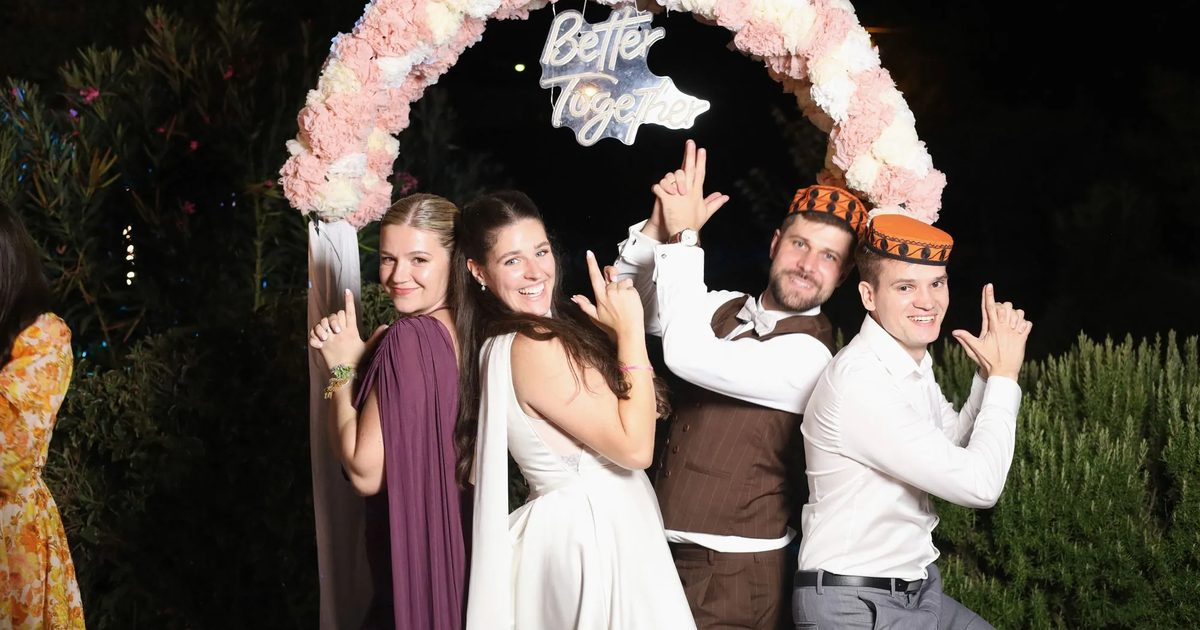
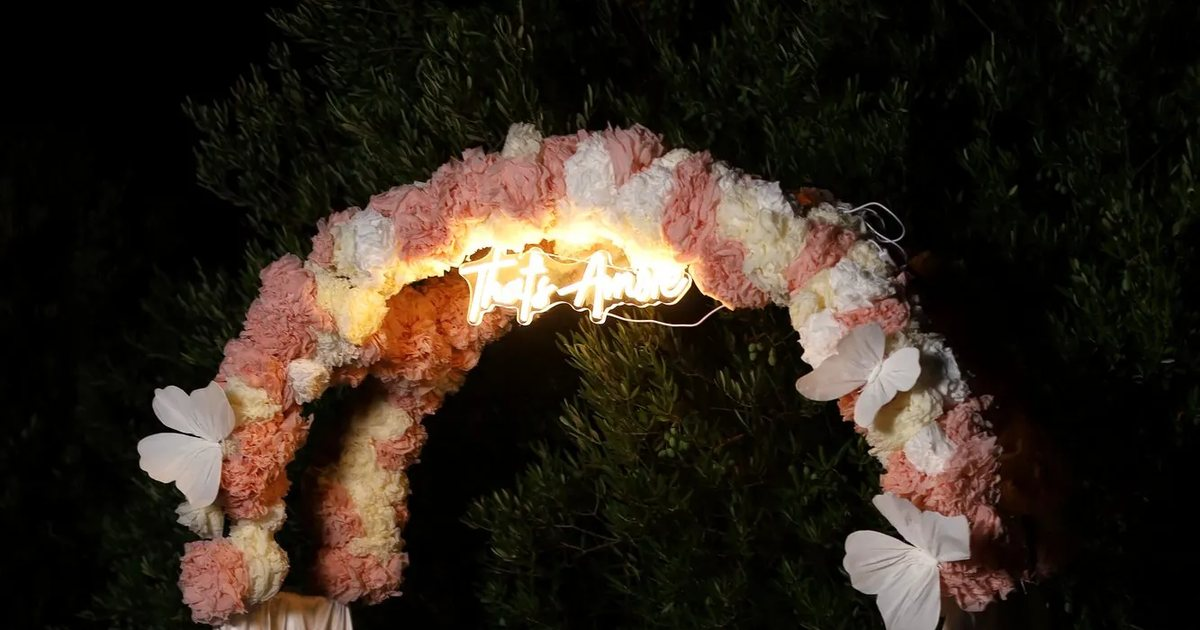
Revise photostation page: printed photos after the event, sketch comparison, new hero
Claude-Session: https://claude.ai/code/session_013jntR8Uv22ovGT6rZF1GNe

diff --git a/photostation/index.html b/photostation/index.html
@@ -4,24 +4,24 @@
   <meta charset="utf-8">
   <meta name="viewport" content="width=device-width, initial-scale=1">
   <title>Photostation s fotografom za vjenčanja u Dalmaciji · Gran Vía Studio</title>
-  <meta name="description" content="Photostation je photobooth bez konstrukcije: naš fotograf fotografira goste ispred cvjetnog luka, zavjese ili zelenila. Za vjenčanja i događaje u Šibeniku, Splitu, Zadru i cijeloj Dalmaciji.">
+  <meta name="description" content="Photostation je photobooth bez konstrukcije: naš fotograf vodi kadar ispred pozadine po izboru, a ispisane fotografije i galeriju dobivate nakon događaja.">
   <link rel="canonical" href="https://granviastudio.com.hr/photostation/">
   <meta property="og:type" content="website">
   <meta property="og:site_name" content="Gran Vía Studio">
   <meta property="og:locale" content="hr_HR">
   <meta property="og:url" content="https://granviastudio.com.hr/photostation/">
   <meta property="og:title" content="Photostation s fotografom · Gran Vía Studio">
-  <meta property="og:description" content="Photobooth bez konstrukcije: fotograf fotografira goste ispred pozadine po vašem izboru.">
+  <meta property="og:description" content="Photobooth bez konstrukcije: fotograf vodi kadar ispred pozadine po vašem izboru.">
   <meta property="og:image" content="https://granviastudio.com.hr/img/og-photostation.jpg">
   <meta property="og:image:width" content="1200">
   <meta property="og:image:height" content="630">
-  <meta property="og:image:alt" content="Mladenka s prijateljima ispod cvjetnog luka">
+  <meta property="og:image:alt" content="Cvjetni luk s neonskim natpisom That's amore">
   <meta name="twitter:card" content="summary_large_image">
   <meta name="theme-color" content="#f6f2ec">
   <link rel="icon" type="image/png" href="../img/favicon.png">
   <link rel="apple-touch-icon" href="../img/favicon.png">
-  <link rel="preload" as="image" href="../img/galerija-luk-mladenka.webp" media="(min-width: 761px)" fetchpriority="high">
-  <link rel="preload" as="image" href="../img/galerija-luk-mladenka-m.webp" media="(max-width: 760px)" fetchpriority="high">
+  <link rel="preload" as="image" href="../img/backdrop-cvjetni-luk.webp" media="(min-width: 761px)" fetchpriority="high">
+  <link rel="preload" as="image" href="../img/backdrop-cvjetni-luk-m.webp" media="(max-width: 760px)" fetchpriority="high">
   <link rel="preload" as="font" type="font/woff2" href="../fonts/playfair-display-latin.woff2" crossorigin>
   <link rel="preload" as="font" type="font/woff2" href="../fonts/montserrat-latin.woff2" crossorigin>
   <link rel="stylesheet" href="../css/style.css">
@@ -34,7 +34,7 @@
         "@id": "https://granviastudio.com.hr/photostation/#service",
         "name": "Photostation",
         "serviceType": "Photostation s fotografom",
-        "description": "Photobooth bez konstrukcije: fotograf fotografira goste ispred pozadine po izboru, uz rekvizite, za vjenčanja i druge događaje.",
+        "description": "Photobooth bez konstrukcije: fotograf vodi kadar i fotografira goste ispred pozadine po izboru, uz rekvizite. Ispisane fotografije i digitalnu galeriju naručitelj dobiva nakon događaja.",
         "url": "https://granviastudio.com.hr/photostation/",
         "image": "https://granviastudio.com.hr/img/og-photostation.jpg",
         "provider": { "@id": "https://granviastudio.com.hr/#business" },
@@ -118,7 +118,7 @@
 
     <section class="intro section" id="uvod">
       <p class="eyebrow reveal">Photostation</p>
-      <p class="intro__lead reveal">Isti kutak za fotografiranje kao photobooth, samo bez stalka, ekrana i printera. Fotoaparat drži naš fotograf: namjesti goste, uhvati pravi trenutak i pazi da svi budu u kadru.</p>
+      <p class="intro__lead reveal">Isti kutak za fotografiranje kao photobooth, samo bez konstrukcije s ekranom i printerom. Fotografira naš fotograf, sa stativom ili bez njega, i on vodi kadar: namjesti goste, uhvati pravi trenutak i pazi da svi budu na fotografiji.</p>
     </section>
 
     <section class="compare section section--tint" id="razlika" aria-labelledby="razlika-title">
@@ -128,18 +128,22 @@
       </div>
       <div class="compare__grid">
         <div class="compare__col reveal">
+          <svg class="compare__sketch" viewBox="0 0 480 300" role="img" aria-labelledby="skica-photostation"><title id="skica-photostation">Skica photostationa: pozadina, gosti i fotograf s fotoaparatom, sa stativom ili bez njega</title><path class="g" d="M8 262h464"/><path class="v" d="M272 171L182 126M272 171L182 256"/><path class="k" d="M40 262V140a65 65 0 0 1 130 0v122"/><path class="k" d="M46 146c-14 46 8 82-20 116h28c-12-30 4-70-8-116zM164 146c14 46-8 82 20 116h-28c12-30-4-70 8-116z"/><circle class="a" cx="39" cy="140" r="9"/><circle class="a" cx="39" cy="140" r="3.8"/><circle class="a" cx="40.7" cy="125.3" r="7"/><circle class="a" cx="40.7" cy="125.3" r="2.9"/><circle class="a" cx="45.5" cy="111.4" r="9"/><circle class="a" cx="45.5" cy="111.4" r="3.8"/><circle class="a" cx="53.4" cy="98.8" r="7"/><circle class="a" cx="53.4" cy="98.8" r="2.9"/><circle class="a" cx="63.8" cy="88.4" r="9"/><circle class="a" cx="63.8" cy="88.4" r="3.8"/><circle class="a" cx="76.4" cy="80.5" r="7"/><circle class="a" cx="76.4" cy="80.5" r="2.9"/><circle class="a" cx="90.3" cy="75.7" r="9"/><circle class="a" cx="90.3" cy="75.7" r="3.8"/><circle class="a" cx="105" cy="74" r="7"/><circle class="a" cx="105" cy="74" r="2.9"/><circle class="a" cx="119.7" cy="75.7" r="9"/><circle class="a" cx="119.7" cy="75.7" r="3.8"/><circle class="a" cx="133.6" cy="80.5" r="7"/><circle class="a" cx="133.6" cy="80.5" r="2.9"/><circle class="a" cx="146.2" cy="88.4" r="9"/><circle class="a" cx="146.2" cy="88.4" r="3.8"/><circle class="a" cx="156.6" cy="98.8" r="7"/><circle class="a" cx="156.6" cy="98.8" r="2.9"/><circle class="a" cx="164.5" cy="111.4" r="9"/><circle class="a" cx="164.5" cy="111.4" r="3.8"/><circle class="a" cx="169.3" cy="125.3" r="7"/><circle class="a" cx="169.3" cy="125.3" r="2.9"/><circle class="a" cx="171" cy="140" r="9"/><circle class="a" cx="171" cy="140" r="3.8"/><circle class="a" cx="40" cy="156" r="8"/><circle class="a" cx="40" cy="156" r="3.4"/><circle class="a" cx="170" cy="156" r="8"/><circle class="a" cx="170" cy="156" r="3.4"/><circle class="a" cx="40" cy="172" r="6.5"/><circle class="a" cx="40" cy="172" r="2.7"/><circle class="a" cx="170" cy="172" r="6.5"/><circle class="a" cx="170" cy="172" r="2.7"/><path class="n" d="M80 104c3-9 7-9 5 0s5 6 9-2 6-6 8 2 6 4 9-3 6-5 8 2 5 4 8-2 5-5 7 1"/><path class="k" d="M80 198q8-5 16 0l4 30 6 34H70l6-34z"/><circle class="k" cx="88" cy="185" r="9"/><path class="k" d="M114 230h18l1 32M117 230l-1 32"/><path class="k" d="M114 192q10-5 20 0l-2 38h-16z"/><circle class="k" cx="124" cy="179" r="9.5"/><path class="k" d="M133 198l9 6"/><rect class="k" x="139" y="196" width="20" height="10" rx="1"/><path class="k d" d="M394 170l-18 92M394 170l18 92M394 170v92"/><rect class="k d" x="382" y="152" width="26" height="14" rx="2"/><rect class="k d" x="375" y="155" width="7" height="8" rx="1"/><path class="k" d="M296 228l-6 34M308 228l8 34"/><path class="k" d="M292 190q10-5 20 0l-2 38h-16z"/><circle class="k" cx="304" cy="176" r="9"/><path class="k" d="M294 196l-10-18M308 196l-14-19"/><rect class="k" x="278" y="165" width="17" height="12" rx="2"/><rect class="k" x="272" y="167" width="6" height="8" rx="1"/><text x="105" y="30"><tspan x="105" dy="0">POZADINA</tspan></text><path class="t" d="M105 38V58"/><text x="300" y="30"><tspan x="300" dy="0">FOTOGRAF</tspan></text><path class="t" d="M300 38V160"/><text x="408" y="30"><tspan x="408" dy="0">STATIV</tspan><tspan x="408" dy="16">PO ŽELJI</tspan></text><path class="t" d="M408 54V146"/></svg>
           <h3>Photostation</h3>
           <ul class="features">
-            <li><span>Fotograf</span> fotografira goste i bira trenutak</li>
-            <li><span>Bez konstrukcije</span> nema stalka, ekrana ni printera</li>
+            <li><span>Fotograf</span> vodi kadar i bira pravi trenutak</li>
+            <li><span>Bez konstrukcije</span> nema ekrana ni printera, fotograf radi sa stativom ili bez njega</li>
+            <li><span>Ispisane fotografije</span> dobivate nakon događaja</li>
+            <li><span>Digitalna galerija</span> svih fotografija</li>
             <li><span>Pozadina po izboru</span> cvjetni luk, zavjesa s cvjetnim vijencem ili zelenilo</li>
             <li><span>Rekviziti</span> naočale, šeširi, kape i natpisi</li>
           </ul>
         </div>
         <div class="compare__col reveal">
+          <svg class="compare__sketch" viewBox="0 0 480 300" role="img" aria-labelledby="skica-photobooth"><title id="skica-photobooth">Skica photobootha: pozadina, gosti, konstrukcija s fotoaparatom, ekranom, svjetlom i printerom te asistent</title><path class="g" d="M8 262h464"/><path class="v" d="M290 133L182 126M290 133L182 256"/><path class="k" d="M40 262V140a65 65 0 0 1 130 0v122"/><path class="k" d="M46 146c-14 46 8 82-20 116h28c-12-30 4-70-8-116zM164 146c14 46-8 82 20 116h-28c12-30-4-70 8-116z"/><circle class="a" cx="39" cy="140" r="9"/><circle class="a" cx="39" cy="140" r="3.8"/><circle class="a" cx="40.7" cy="125.3" r="7"/><circle class="a" cx="40.7" cy="125.3" r="2.9"/><circle class="a" cx="45.5" cy="111.4" r="9"/><circle class="a" cx="45.5" cy="111.4" r="3.8"/><circle class="a" cx="53.4" cy="98.8" r="7"/><circle class="a" cx="53.4" cy="98.8" r="2.9"/><circle class="a" cx="63.8" cy="88.4" r="9"/><circle class="a" cx="63.8" cy="88.4" r="3.8"/><circle class="a" cx="76.4" cy="80.5" r="7"/><circle class="a" cx="76.4" cy="80.5" r="2.9"/><circle class="a" cx="90.3" cy="75.7" r="9"/><circle class="a" cx="90.3" cy="75.7" r="3.8"/><circle class="a" cx="105" cy="74" r="7"/><circle class="a" cx="105" cy="74" r="2.9"/><circle class="a" cx="119.7" cy="75.7" r="9"/><circle class="a" cx="119.7" cy="75.7" r="3.8"/><circle class="a" cx="133.6" cy="80.5" r="7"/><circle class="a" cx="133.6" cy="80.5" r="2.9"/><circle class="a" cx="146.2" cy="88.4" r="9"/><circle class="a" cx="146.2" cy="88.4" r="3.8"/><circle class="a" cx="156.6" cy="98.8" r="7"/><circle class="a" cx="156.6" cy="98.8" r="2.9"/><circle class="a" cx="164.5" cy="111.4" r="9"/><circle class="a" cx="164.5" cy="111.4" r="3.8"/><circle class="a" cx="169.3" cy="125.3" r="7"/><circle class="a" cx="169.3" cy="125.3" r="2.9"/><circle class="a" cx="171" cy="140" r="9"/><circle class="a" cx="171" cy="140" r="3.8"/><circle class="a" cx="40" cy="156" r="8"/><circle class="a" cx="40" cy="156" r="3.4"/><circle class="a" cx="170" cy="156" r="8"/><circle class="a" cx="170" cy="156" r="3.4"/><circle class="a" cx="40" cy="172" r="6.5"/><circle class="a" cx="40" cy="172" r="2.7"/><circle class="a" cx="170" cy="172" r="6.5"/><circle class="a" cx="170" cy="172" r="2.7"/><path class="n" d="M80 104c3-9 7-9 5 0s5 6 9-2 6-6 8 2 6 4 9-3 6-5 8 2 5 4 8-2 5-5 7 1"/><path class="k" d="M80 198q8-5 16 0l4 30 6 34H70l6-34z"/><circle class="k" cx="88" cy="185" r="9"/><path class="k" d="M114 230h18l1 32M117 230l-1 32"/><path class="k" d="M114 192q10-5 20 0l-2 38h-16z"/><circle class="k" cx="124" cy="179" r="9.5"/><path class="k" d="M133 198l9 6"/><rect class="k" x="139" y="196" width="20" height="10" rx="1"/><path class="k" d="M262 212c-8 22 6 36-10 50h26c-8-14 0-30-4-50zM346 212c8 22-6 36 10 50h-26c8-14 0-30 4-50z"/><rect class="k" x="290" y="224" width="34" height="18" rx="2"/><path class="k" d="M299 242v12h16v-12"/><rect class="k" x="256" y="206" width="96" height="6" rx="1"/><rect class="k" x="270" y="140" width="74" height="66" rx="3"/><rect class="k" x="278" y="148" width="58" height="40" rx="1"/><circle class="a" cx="300" cy="164" r="4"/><circle class="a" cx="314" cy="162" r="4"/><path class="a" d="M293 179q7-8 14 0M307 179q7-9 14 0"/><path class="k" d="M294 197h26"/><rect class="k" x="292" y="126" width="30" height="14" rx="2"/><circle class="k" cx="307" cy="133" r="4.5"/><path class="k" d="M384 124v138M384 238l-14 24M384 238l14 24"/><circle class="k" cx="384" cy="104" r="20"/><circle class="k" cx="384" cy="104" r="13"/><path class="k" d="M428 233l-2 29M440 233l2 29"/><path class="k" d="M424 197q10-5 20 0l-2 36h-16z"/><circle class="k" cx="434" cy="182" r="9"/><text x="105" y="30"><tspan x="105" dy="0">POZADINA</tspan></text><path class="t" d="M105 38V58"/><text x="307" y="30"><tspan x="307" dy="0">KONSTRUKCIJA</tspan></text><path class="t" d="M307 38V120"/><text x="434" y="30"><tspan x="434" dy="0">ASISTENT</tspan></text><path class="t" d="M434 38V168"/></svg>
           <h3>Photobooth</h3>
           <ul class="features">
-            <li><span>Gosti</span> se fotografiraju sami</li>
+            <li><span>Gosti</span> se sami namještaju u kadar, uz pomoć našeg asistenta</li>
             <li><span>Konstrukcija</span> s fotoaparatom, ekranom, svjetlom i printerom</li>
             <li><span>Ispis za 12 sekundi</span> na licu mjesta</li>
             <li><span>Knjiga dojmova</span> u koju gosti lijepe fotografije</li>
@@ -149,18 +153,11 @@
       </div>
     </section>
 
-    <section class="gallery section" aria-labelledby="galerija-title">
+    <section class="section" aria-labelledby="atmosfera-title">
       <div class="section-head reveal">
-        <p class="eyebrow">S naših događaja</p>
-        <h2 class="h2" id="galerija-title">Gosti <em>ispred luka</em></h2>
-      </div>
-      <div class="masonry">
-        <a href="../img/galerija-luk-mladenka.webp" class="m-item reveal"><img width="900" height="600" src="../img/galerija-luk-mladenka-sm.webp" alt="Mladenka s prijateljima ispod luka" loading="lazy"></a>
-        <a href="../img/galerija-luk-ekipa-3.webp" class="m-item reveal"><img width="900" height="600" src="../img/galerija-luk-ekipa-3-sm.webp" alt="Društvo poziraju ispod luka" loading="lazy"></a>
-        <a href="../img/galerija-luk-ekipa-2.webp" class="m-item reveal"><img width="900" height="600" src="../img/galerija-luk-ekipa-2-sm.webp" alt="Veselo društvo ispod cvjetnog luka" loading="lazy"></a>
-        <a href="../img/galerija-luk-trojka.webp" class="m-item reveal"><img width="900" height="600" src="../img/galerija-luk-trojka-sm.webp" alt="Troje prijatelja ispod luka" loading="lazy"></a>
-        <a href="../img/galerija-luk-par.webp" class="m-item reveal"><img width="900" height="600" src="../img/galerija-luk-par-sm.webp" alt="Par u zagrljaju ispod luka" loading="lazy"></a>
-        <a href="../img/galerija-luk-djevojke.webp" class="m-item reveal"><img width="900" height="600" src="../img/galerija-luk-djevojke-sm.webp" alt="Djevojke slave ispod luka" loading="lazy"></a>
+        <p class="eyebrow">Prednost photostationa</p>
+        <h2 class="h2" id="atmosfera-title">Atmosfera <em>prije prve fotografije</em></h2>
+        <p class="section-head__sub">Opremu postavljamo prije dolaska gostiju. Kad je sve spremno, fotograf može fotografirati atmosferu ispred i unutar dvorane, i prije nego što počne službeno fotografiranje ispred photostationa.</p>
       </div>
     </section>
 
@@ -170,7 +167,8 @@
         <h2 class="h2" id="pitanja-title">Što nas <em>najčešće pitate</em></h2>
       </div>
       <dl class="faq__list reveal">
-        <div><dt>Koja je razlika između photostationa i photobootha?</dt><dd>Kod photobootha se gosti fotografiraju sami, uz konstrukciju s fotoaparatom, ekranom i printerom. Kod photostationa nema konstrukcije: fotoaparat drži naš fotograf i fotografira goste ispred pozadine.</dd></div>
+        <div><dt>Koja je razlika između photostationa i photobootha?</dt><dd>Kod photobootha se gosti sami namještaju u kadar, uz pomoć našeg asistenta, a konstrukcija s fotoaparatom, ekranom i printerom ispisuje fotografiju za 12 sekundi. Kod photostationa nema konstrukcije: kadar vodi naš fotograf, a ispisane fotografije dobivate nakon događaja. Knjiga dojmova ide samo uz photobooth.</dd></div>
+        <div><dt>Kada dobivamo fotografije?</dt><dd>Nakon događaja. Fotografije ispisujemo naknadno, a ispisane fotografije i digitalnu galeriju dobivate vi.</dd></div>
         <div><dt>Može li photostation uz pozadinu?</dt><dd>Može. Birati možete između cvjetnog luka, zavjese s cvjetnim vijencem i zelenila, uz neonski natpis po izboru. Pogledajte <a href="../najam-pozadina/">najam pozadina</a>.</dd></div>
         <div><dt>Koliko traje?</dt><dd>Trajanje dogovaramo s mladencima ili organizatorom događaja.</dd></div>
         <div><dt>Gdje dolazite?</dt><dd>U cijelu Dalmaciju: Zadar, Šibenik, Split, Trogir, Makarsku, Dubrovnik i okolna mjesta. Po dogovoru dolazimo i u ostatak Hrvatske.</dd></div>

diff --git a/css/style.css b/css/style.css
@@ -192,11 +192,11 @@ body.menu-open .site-header { color: var(--ink); background: var(--paper); }
 .hero--page { height: 78vh; height: 78svh; min-height: 520px; }
 .hero__slide--pb { background-image: url(../img/photobooth-rekviziti-1.webp); background-position: center 30%; }
 .hero__slide--bd { background-image: url(../img/galerija-luk-par.webp); background-position: 70% 40%; }
-.hero__slide--ps { background-image: url(../img/galerija-luk-mladenka.webp); background-position: center 35%; }
+.hero__slide--ps { background-image: url(../img/backdrop-cvjetni-luk.webp); background-position: center 16%; }
 @media (max-width: 760px) {
   .hero__slide--pb { background-image: url(../img/photobooth-rekviziti-1-m.webp); }
   .hero__slide--bd { background-image: url(../img/galerija-luk-par-m.webp); }
-  .hero__slide--ps { background-image: url(../img/galerija-luk-mladenka-m.webp); }
+  .hero__slide--ps { background-image: url(../img/backdrop-cvjetni-luk-m.webp); }
   .hero__slide--1 { background-image: url(../img/hero-luk-ekipa-m.webp); }
   .hero.is-loaded .hero__slide--2 { background-image: url(../img/backdrop-welcome-m.webp); }
   .hero.is-loaded .hero__slide--3 { background-image: url(../img/galerija-luk-djevojke-m.webp); }
@@ -426,6 +426,15 @@ body.menu-open .site-header { color: var(--ink); background: var(--paper); }
 .compare__col h3 { font-family: var(--serif); font-weight: 400; font-size: clamp(26px, 2.6vw, 34px); margin: 0; }
 .compare__col .features { margin: 20px 0 28px; }
 @media (max-width: 760px) { .compare__grid { grid-template-columns: 1fr; } }
+.compare__sketch { display: block; width: 100%; max-width: 480px; height: auto; margin: 0 0 24px; overflow: visible; }
+.compare__sketch .k { fill: var(--ivory); stroke: var(--ink); stroke-width: 1.3; stroke-linecap: round; stroke-linejoin: round; }
+.compare__sketch .a { fill: var(--ivory); stroke: var(--accent); stroke-width: 1.2; }
+.compare__sketch .n { fill: none; stroke: var(--accent); stroke-width: 1.6; stroke-linecap: round; stroke-linejoin: round; }
+.compare__sketch .v { fill: none; stroke: var(--accent); stroke-width: 1; stroke-dasharray: 2 5; stroke-linecap: round; }
+.compare__sketch .d { stroke-dasharray: 5 4; }
+.compare__sketch .g { fill: none; stroke: var(--line); stroke-width: 1.3; }
+.compare__sketch .t { fill: none; stroke: var(--muted); stroke-width: .8; }
+.compare__sketch text { font-family: var(--sans); font-size: 14px; font-weight: 500; letter-spacing: .12em; fill: var(--muted); text-anchor: middle; }
 .about__cities a { text-decoration: none; border-bottom: 1px solid var(--line); }
 .about__cities a:hover { border-bottom-color: currentColor; }
 .cta__actions { display: flex; gap: 32px; justify-content: center; align-items: center; flex-wrap: wrap; }

diff --git a/index.html b/index.html
@@ -55,7 +55,7 @@
           "name": "Usluge",
           "itemListElement": [
             { "@type": "Offer", "itemOffered": { "@id": "https://granviastudio.com.hr/photobooth/#service", "@type": "Service", "name": "Photobooth", "url": "https://granviastudio.com.hr/photobooth/", "description": "Photobooth s ispisom fotografija za 12 sekundi, rekvizitima, knjigom dojmova i digitalnom galerijom." } },
-            { "@type": "Offer", "itemOffered": { "@id": "https://granviastudio.com.hr/photostation/#service", "@type": "Service", "name": "Photostation", "url": "https://granviastudio.com.hr/photostation/", "description": "Photobooth bez konstrukcije: fotograf fotografira goste ispred pozadine po izboru." } },
+            { "@type": "Offer", "itemOffered": { "@id": "https://granviastudio.com.hr/photostation/#service", "@type": "Service", "name": "Photostation", "url": "https://granviastudio.com.hr/photostation/", "description": "Photobooth bez konstrukcije: fotograf vodi kadar ispred pozadine po izboru, a ispisane fotografije i galeriju naručitelj dobiva nakon događaja." } },
             { "@type": "Offer", "itemOffered": { "@id": "https://granviastudio.com.hr/najam-pozadina/#service", "@type": "Service", "name": "Najam pozadina", "url": "https://granviastudio.com.hr/najam-pozadina/", "description": "Najam cvjetnog luka, zavjese s cvjetnim vijencem, zelenila i neonskih natpisa, s dostavom i postavom." } }
           ]
         }
@@ -160,7 +160,7 @@
       <div class="split__text reveal">
         <p class="eyebrow">01 · Photobooth</p>
         <h2 class="h2">Fotografija u ruci,<br><em>za nekoliko sekundi</em></h2>
-        <p>Naš fotokutak ima profesionalni fotoaparat, studijsko svjetlo i ispis na licu mjesta. Gosti se slikaju sami, a gotova fotografija izlazi iz printera za samo <strong>12 sekundi</strong>, s vašim imenima i datumom.</p>
+        <p>Naš fotokutak ima profesionalni fotoaparat, studijsko svjetlo i ispis na licu mjesta. Gosti se sami namještaju u kadar, uz pomoć našeg asistenta, a gotova fotografija izlazi iz printera za samo <strong>12 sekundi</strong>, s vašim imenima i datumom.</p>
         <ul class="features">
           <li><span>Ispis za 12 sekundi</span> odmah nakon fotografiranja</li>
           <li><span>Neograničen ispis</span> tijekom cijelog najma</li>

diff --git a/photobooth/index.html b/photobooth/index.html
@@ -213,7 +213,7 @@
         <h2 class="h2" id="pitanja-title">Što nas <em>najčešće pitate</em></h2>
       </div>
       <dl class="faq__list reveal">
-        <div><dt>Je li photobooth isto što i fotokutak ili foto kabina?</dt><dd>Photobooth (ili photo booth) i fotokutak možete smatrati istim: otvoreni kutak u kojem se gosti sami fotografiraju i odmah dobiju ispisanu fotografiju. Foto kabina je nešto drugo, zatvoreni prostor, a naš photobooth je otvoren.</dd></div>
+        <div><dt>Je li photobooth isto što i fotokutak ili foto kabina?</dt><dd>Photobooth (ili photo booth) i fotokutak možete smatrati istim: otvoreni kutak u kojem se gosti, uz pomoć našeg asistenta, sami namještaju u kadar i odmah dobiju ispisanu fotografiju. Foto kabina je nešto drugo, zatvoreni prostor, a naš photobooth je otvoren.</dd></div>
         <div><dt>Koliko traje ispis i koliko fotografija gosti mogu dobiti?</dt><dd>Fotografija izlazi iz printera za 12 sekundi, a ispis je neograničen tijekom cijelog najma.</dd></div>
         <div><dt>Dobivamo li i digitalne fotografije?</dt><dd>Da. Nakon događaja šaljemo vam digitalnu galeriju sa svim fotografijama iz photobootha.</dd></div>
         <div><dt>Tko postavlja photobooth?</dt><dd>Mi. Dovezemo opremu i postavimo je prije dolaska gostiju, a asistent je uz photobooth tijekom cijelog najma.</dd></div>
